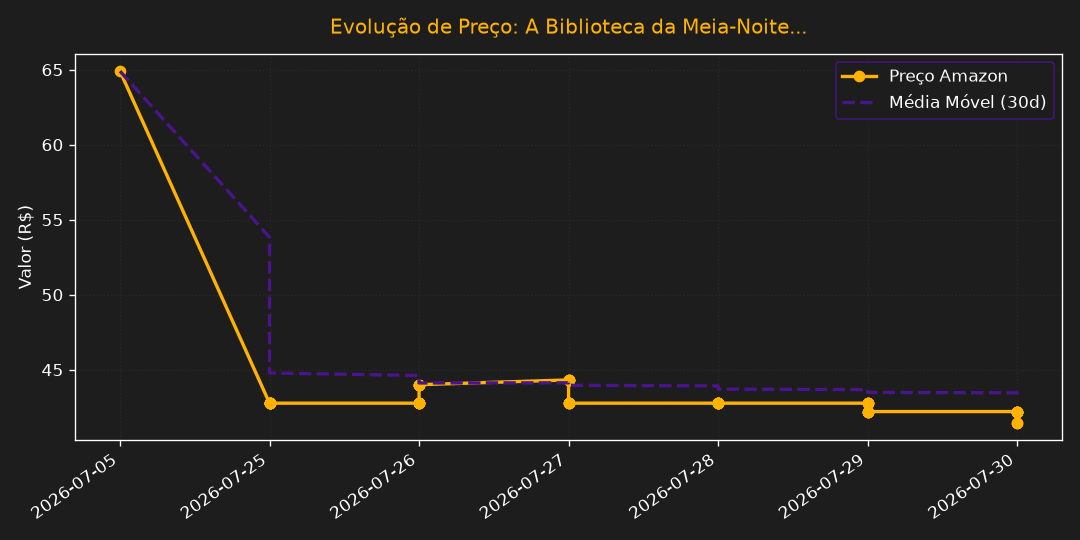
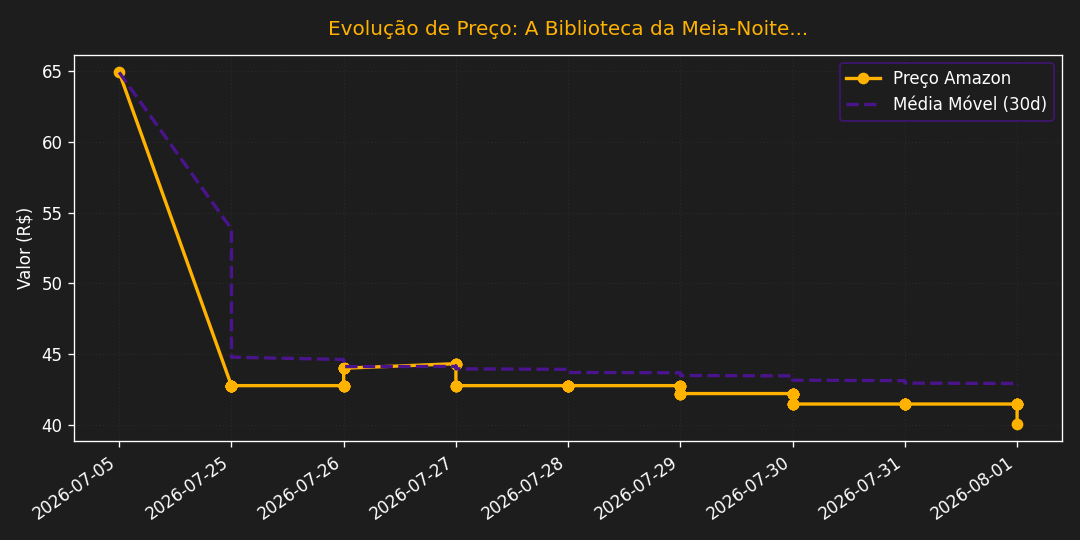
🤖 Bot: Atualização do histórico, portal de ofertas e assets [skip ci]

diff --git a/index.html b/index.html
@@ -20,7 +20,7 @@
     <meta property="twitter:description" content="Curadoria matemática de livros de fantasia em promoção.">
     
     <script type="application/ld+json">
-    {"@context": "https://schema.org", "@type": "ItemList", "name": "Promoções Ativas de Fantasia", "itemListElement": [{"@type": "ListItem", "position": 1, "item": {"@type": "Product", "name": "Box Ficção Completa de Edgar Allan Poe", "url": "https://link.amazon/B0bxqDHXJ", "offers": {"@type": "Offer", "priceCurrency": "BRL", "price": 180.86, "availability": "https://schema.org/InStock"}}}, {"@type": "ListItem", "position": 2, "item": {"@type": "Product", "name": "O sacrifício", "url": "https://link.amazon/B05C027gt", "offers": {"@type": "Offer", "priceCurrency": "BRL", "price": 63.78, "availability": "https://schema.org/InStock"}}}, {"@type": "ListItem", "position": 3, "item": {"@type": "Product", "name": "A cabeça do santo", "url": "https://link.amazon/B07BZ9Phr", "offers": {"@type": "Offer", "priceCurrency": "BRL", "price": 33.37, "availability": "https://schema.org/InStock"}}}, {"@type": "ListItem", "position": 4, "item": {"@type": "Product", "name": "A Biblioteca da Meia-Noite", "url": "https://link.amazon/B0ahQKnZG", "offers": {"@type": "Offer", "priceCurrency": "BRL", "price": 41.47, "availability": "https://schema.org/InStock"}}}, {"@type": "ListItem", "position": 5, "item": {"@type": "Product", "name": "O Hobbit + pôster", "url": "https://link.amazon/B05Sr7Nr7", "offers": {"@type": "Offer", "priceCurrency": "BRL", "price": 44.94, "availability": "https://schema.org/InStock"}}}, {"@type": "ListItem", "position": 6, "item": {"@type": "Product", "name": "A Ascensão do Dragão", "url": "https://link.amazon/B04OFbHZF", "offers": {"@type": "Offer", "priceCurrency": "BRL", "price": 132.9, "availability": "https://schema.org/InStock"}}}, {"@type": "ListItem", "position": 7, "item": {"@type": "Product", "name": "O mundo de gelo e fogo", "url": "https://link.amazon/B0bOFsgQ9", "offers": {"@type": "Offer", "priceCurrency": "BRL", "price": 135.26, "availability": "https://schema.org/InStock"}}}, {"@type": "ListItem", "position": 8, "item": {"@type": "Product", "name": "Box Trilogia O Senhor dos Anéis", "url": "https://link.amazon/B0cOS4omj", "offers": {"@type": "Offer", "priceCurrency": "BRL", "price": 199.4, "availability": "https://schema.org/InStock"}}}, {"@type": "ListItem", "position": 9, "item": {"@type": "Product", "name": "O cavaleiro dos Sete Reinos", "url": "https://link.amazon/B0e2PzSTe", "offers": {"@type": "Offer", "priceCurrency": "BRL", "price": 78.99, "availability": "https://schema.org/InStock"}}}, {"@type": "ListItem", "position": 10, "item": {"@type": "Product", "name": "Fogo & Sangue – Volume 1", "url": "https://link.amazon/B01CIGwaZ", "offers": {"@type": "Offer", "priceCurrency": "BRL", "price": 82.94, "availability": "https://schema.org/InStock"}}}, {"@type": "ListItem", "position": 11, "item": {"@type": "Product", "name": "Box Torre negra", "url": "https://link.amazon/B0czAwuOp", "offers": {"@type": "Offer", "priceCurrency": "BRL", "price": 412.72, "availability": "https://schema.org/InStock"}}}, {"@type": "ListItem", "position": 12, "item": {"@type": "Product", "name": "Os fragmentos de Bovadium", "url": "https://link.amazon/B0fKkmi1R", "offers": {"@type": "Offer", "priceCurrency": "BRL", "price": 39.8, "availability": "https://schema.org/InStock"}}}, {"@type": "ListItem", "position": 13, "item": {"@type": "Product", "name": "Mistborn: O Império Final: Livro 1 de Mistborn", "url": "https://link.amazon/B0bJ5jTSU", "offers": {"@type": "Offer", "priceCurrency": "BRL", "price": 69.73, "availability": "https://schema.org/InStock"}}}, {"@type": "ListItem", "position": 14, "item": {"@type": "Product", "name": "A guerra da papoula", "url": "https://link.amazon/B075ASsRo", "offers": {"@type": "Offer", "priceCurrency": "BRL", "price": 54.14, "availability": "https://schema.org/InStock"}}}, {"@type": "ListItem", "position": 15, "item": {"@type": "Product", "name": "A república do dragão: 2", "url": "https://link.amazon/B05s4V4tS", "offers": {"@type": "Offer", "priceCurrency": "BRL", "price": 57.9, "availability": "https://schema.org/InStock"}}}, {"@type": "ListItem", "position": 16, "item": {"@type": "Product", "name": "A deusa em chamas: 3", "url": "https://link.amazon/B00tEF0jN", "offers": {"@type": "Offer", "priceCurrency": "BRL", "price": 59.75, "availability": "https://schema.org/InStock"}}}, {"@type": "ListItem", "position": 17, "item": {"@type": "Product", "name": "O caminho dos reis", "url": "https://link.amazon/B0g8PJdyP", "offers": {"@type": "Offer", "priceCurrency": "BRL", "price": 132.9, "availability": "https://schema.org/InStock"}}}, {"@type": "ListItem", "position": 18, "item": {"@type": "Product", "name": "Palavras de Radiância", "url": "https://link.amazon/B09bDCyVl", "offers": {"@type": "Offer", "priceCurrency": "BRL", "price": 152.85, "availability": "https://schema.org/InStock"}}}, {"@type": "ListItem", "position": 19, "item": {"@type": "Product", "name": "Sacramentadora", "url": "https://link.amazon/B0cBFS3o1", "offers": {"@type": "Offer", "priceCurrency": "BRL", "price": 152.85, "availability": "https://schema.org/InStock"}}}, {"@type": "ListItem", "position": 20, "item": {"@type": "Product", "name": "Ritmo da Guerra", "url": "https://link.amazon/B0f81O992", "offers": {"@type": "Offer", "priceCurrency": "BRL", "price": 147.13, "availability": "https://schema.org/InStock"}}}, {"@type": "ListItem", "position": 21, "item": {"@type": "Product", "name": "O alquimista", "url": "https://link.amazon/B00bB1BuS", "offers": {"@type": "Offer", "priceCurrency": "BRL", "price": 42.94, "availability": "https://schema.org/InStock"}}}, {"@type": "ListItem", "position": 22, "item": {"@type": "Product", "name": "O nome do vento", "url": "https://link.amazon/B0h9jyezR", "offers": {"@type": "Offer", "priceCurrency": "BRL", "price": 53.9, "availability": "https://schema.org/InStock"}}}, {"@type": "ListItem", "position": 23, "item": {"@type": "Product", "name": "A música do silêncio", "url": "https://link.amazon/B0eRR4Vm5", "offers": {"@type": "Offer", "priceCurrency": "BRL", "price": 39.8, "availability": "https://schema.org/InStock"}}}, {"@type": "ListItem", "position": 24, "item": {"@type": "Product", "name": "O temor do sábio", "url": "https://link.amazon/B0aqYDLFU", "offers": {"@type": "Offer", "priceCurrency": "BRL", "price": 78.99, "availability": "https://schema.org/InStock"}}}]}
+    {"@context": "https://schema.org", "@type": "ItemList", "name": "Promoções Ativas de Fantasia", "itemListElement": [{"@type": "ListItem", "position": 1, "item": {"@type": "Product", "name": "Box Ficção Completa de Edgar Allan Poe", "url": "https://link.amazon/B0bxqDHXJ", "offers": {"@type": "Offer", "priceCurrency": "BRL", "price": 279.9, "availability": "https://schema.org/InStock"}}}, {"@type": "ListItem", "position": 2, "item": {"@type": "Product", "name": "O sacrifício", "url": "https://link.amazon/B05C027gt", "offers": {"@type": "Offer", "priceCurrency": "BRL", "price": 63.78, "availability": "https://schema.org/InStock"}}}, {"@type": "ListItem", "position": 3, "item": {"@type": "Product", "name": "A cabeça do santo", "url": "https://link.amazon/B07BZ9Phr", "offers": {"@type": "Offer", "priceCurrency": "BRL", "price": 37.07, "availability": "https://schema.org/InStock"}}}, {"@type": "ListItem", "position": 4, "item": {"@type": "Product", "name": "A Biblioteca da Meia-Noite", "url": "https://link.amazon/B0ahQKnZG", "offers": {"@type": "Offer", "priceCurrency": "BRL", "price": 40.07, "availability": "https://schema.org/InStock"}}}, {"@type": "ListItem", "position": 5, "item": {"@type": "Product", "name": "O Hobbit + pôster", "url": "https://link.amazon/B05Sr7Nr7", "offers": {"@type": "Offer", "priceCurrency": "BRL", "price": 44.94, "availability": "https://schema.org/InStock"}}}, {"@type": "ListItem", "position": 6, "item": {"@type": "Product", "name": "A Ascensão do Dragão", "url": "https://link.amazon/B04OFbHZF", "offers": {"@type": "Offer", "priceCurrency": "BRL", "price": 132.9, "availability": "https://schema.org/InStock"}}}, {"@type": "ListItem", "position": 7, "item": {"@type": "Product", "name": "O mundo de gelo e fogo", "url": "https://link.amazon/B0bOFsgQ9", "offers": {"@type": "Offer", "priceCurrency": "BRL", "price": 135.26, "availability": "https://schema.org/InStock"}}}, {"@type": "ListItem", "position": 8, "item": {"@type": "Product", "name": "Box Trilogia O Senhor dos Anéis", "url": "https://link.amazon/B0cOS4omj", "offers": {"@type": "Offer", "priceCurrency": "BRL", "price": 199.4, "availability": "https://schema.org/InStock"}}}, {"@type": "ListItem", "position": 9, "item": {"@type": "Product", "name": "O cavaleiro dos Sete Reinos", "url": "https://link.amazon/B0e2PzSTe", "offers": {"@type": "Offer", "priceCurrency": "BRL", "price": 78.99, "availability": "https://schema.org/InStock"}}}, {"@type": "ListItem", "position": 10, "item": {"@type": "Product", "name": "Fogo & Sangue – Volume 1", "url": "https://link.amazon/B01CIGwaZ", "offers": {"@type": "Offer", "priceCurrency": "BRL", "price": 82.94, "availability": "https://schema.org/InStock"}}}, {"@type": "ListItem", "position": 11, "item": {"@type": "Product", "name": "Box Torre negra", "url": "https://link.amazon/B0czAwuOp", "offers": {"@type": "Offer", "priceCurrency": "BRL", "price": 412.72, "availability": "https://schema.org/InStock"}}}, {"@type": "ListItem", "position": 12, "item": {"@type": "Product", "name": "Os fragmentos de Bovadium", "url": "https://link.amazon/B0fKkmi1R", "offers": {"@type": "Offer", "priceCurrency": "BRL", "price": 39.8, "availability": "https://schema.org/InStock"}}}, {"@type": "ListItem", "position": 13, "item": {"@type": "Product", "name": "Mistborn: O Império Final: Livro 1 de Mistborn", "url": "https://link.amazon/B0bJ5jTSU", "offers": {"@type": "Offer", "priceCurrency": "BRL", "price": 69.73, "availability": "https://schema.org/InStock"}}}, {"@type": "ListItem", "position": 14, "item": {"@type": "Product", "name": "A guerra da papoula", "url": "https://link.amazon/B075ASsRo", "offers": {"@type": "Offer", "priceCurrency": "BRL", "price": 54.14, "availability": "https://schema.org/InStock"}}}, {"@type": "ListItem", "position": 15, "item": {"@type": "Product", "name": "A república do dragão: 2", "url": "https://link.amazon/B05s4V4tS", "offers": {"@type": "Offer", "priceCurrency": "BRL", "price": 57.9, "availability": "https://schema.org/InStock"}}}, {"@type": "ListItem", "position": 16, "item": {"@type": "Product", "name": "A deusa em chamas: 3", "url": "https://link.amazon/B00tEF0jN", "offers": {"@type": "Offer", "priceCurrency": "BRL", "price": 59.75, "availability": "https://schema.org/InStock"}}}, {"@type": "ListItem", "position": 17, "item": {"@type": "Product", "name": "O caminho dos reis", "url": "https://link.amazon/B0g8PJdyP", "offers": {"@type": "Offer", "priceCurrency": "BRL", "price": 103.0, "availability": "https://schema.org/InStock"}}}, {"@type": "ListItem", "position": 18, "item": {"@type": "Product", "name": "Palavras de Radiância", "url": "https://link.amazon/B09bDCyVl", "offers": {"@type": "Offer", "priceCurrency": "BRL", "price": 152.85, "availability": "https://schema.org/InStock"}}}, {"@type": "ListItem", "position": 19, "item": {"@type": "Product", "name": "Sacramentadora", "url": "https://link.amazon/B0cBFS3o1", "offers": {"@type": "Offer", "priceCurrency": "BRL", "price": 152.85, "availability": "https://schema.org/InStock"}}}, {"@type": "ListItem", "position": 20, "item": {"@type": "Product", "name": "Ritmo da Guerra", "url": "https://link.amazon/B0f81O992", "offers": {"@type": "Offer", "priceCurrency": "BRL", "price": 147.13, "availability": "https://schema.org/InStock"}}}, {"@type": "ListItem", "position": 21, "item": {"@type": "Product", "name": "O alquimista", "url": "https://link.amazon/B00bB1BuS", "offers": {"@type": "Offer", "priceCurrency": "BRL", "price": 42.94, "availability": "https://schema.org/InStock"}}}, {"@type": "ListItem", "position": 22, "item": {"@type": "Product", "name": "O nome do vento", "url": "https://link.amazon/B0h9jyezR", "offers": {"@type": "Offer", "priceCurrency": "BRL", "price": 53.9, "availability": "https://schema.org/InStock"}}}, {"@type": "ListItem", "position": 23, "item": {"@type": "Product", "name": "A música do silêncio", "url": "https://link.amazon/B0eRR4Vm5", "offers": {"@type": "Offer", "priceCurrency": "BRL", "price": 39.8, "availability": "https://schema.org/InStock"}}}, {"@type": "ListItem", "position": 24, "item": {"@type": "Product", "name": "O temor do sábio", "url": "https://link.amazon/B0aqYDLFU", "offers": {"@type": "Offer", "priceCurrency": "BRL", "price": 78.99, "availability": "https://schema.org/InStock"}}}]}
     </script>
     
     <link rel="preconnect" href="https://fonts.googleapis.com">
@@ -103,7 +103,7 @@
 
         <div class="grid grid-cols-1 md:grid-cols-2 lg:grid-cols-3 gap-8">
             <article class="glass-card rounded-xl overflow-hidden relative flex flex-col h-full group">
-                <span class="px-2 py-1 text-xs font-bold text-green-100 bg-green-900/60 border border-green-700 rounded absolute top-3 right-3 shadow-sm z-20">Abaixo da Média</span>
+                
                 
                 <div class="w-full h-48 bg-black/40 flex items-center justify-center overflow-hidden border-b border-gray-800">
                     <img src="" alt="Box Ficção Completa de Edgar Allan Poe" class="w-full h-full object-cover group-hover:scale-105 transition-transform duration-300">
@@ -115,11 +115,11 @@
                         <div class="space-y-3 mb-6">
                             <div class="flex justify-between items-end border-b border-gray-700/50 pb-3">
                                 <span class="text-sm text-gray-400">Preço Agora</span>
-                                <span class="text-2xl font-bold text-bardo-success">R$ 180,86</span>
+                                <span class="text-2xl font-bold text-bardo-success">R$ 279,90</span>
                             </div>
                             <div class="flex justify-between items-center text-sm">
                                 <span class="text-gray-500">Média (30 dias)</span>
-                                <span class="font-medium text-gray-300">R$ 186,70</span>
+                                <span class="font-medium text-gray-300">R$ 188,00</span>
                             </div>
                             <div class="flex justify-between items-center text-sm">
                                 <span class="text-gray-500">Menor Histórico</span>
@@ -150,7 +150,7 @@
                             </div>
                             <div class="flex justify-between items-center text-sm">
                                 <span class="text-gray-500">Média (30 dias)</span>
-                                <span class="font-medium text-gray-300">R$ 63,21</span>
+                                <span class="font-medium text-gray-300">R$ 63,22</span>
                             </div>
                             <div class="flex justify-between items-center text-sm">
                                 <span class="text-gray-500">Menor Histórico</span>
@@ -177,11 +177,11 @@
                         <div class="space-y-3 mb-6">
                             <div class="flex justify-between items-end border-b border-gray-700/50 pb-3">
                                 <span class="text-sm text-gray-400">Preço Agora</span>
-                                <span class="text-2xl font-bold text-bardo-success">R$ 33,37</span>
+                                <span class="text-2xl font-bold text-bardo-success">R$ 37,07</span>
                             </div>
                             <div class="flex justify-between items-center text-sm">
                                 <span class="text-gray-500">Média (30 dias)</span>
-                                <span class="font-medium text-gray-300">R$ 42,97</span>
+                                <span class="font-medium text-gray-300">R$ 42,88</span>
                             </div>
                             <div class="flex justify-between items-center text-sm">
                                 <span class="text-gray-500">Menor Histórico</span>
@@ -208,15 +208,15 @@
                         <div class="space-y-3 mb-6">
                             <div class="flex justify-between items-end border-b border-gray-700/50 pb-3">
                                 <span class="text-sm text-gray-400">Preço Agora</span>
-                                <span class="text-2xl font-bold text-bardo-success">R$ 41,47</span>
+                                <span class="text-2xl font-bold text-bardo-success">R$ 40,07</span>
                             </div>
                             <div class="flex justify-between items-center text-sm">
                                 <span class="text-gray-500">Média (30 dias)</span>
-                                <span class="font-medium text-gray-300">R$ 42,82</span>
+                                <span class="font-medium text-gray-300">R$ 42,78</span>
                             </div>
                             <div class="flex justify-between items-center text-sm">
                                 <span class="text-gray-500">Menor Histórico</span>
-                                <span class="font-medium text-gray-300">R$ 41,47</span>
+                                <span class="font-medium text-gray-300">R$ 40,07</span>
                             </div>
                         </div>
                     </div>
@@ -274,7 +274,7 @@
                             </div>
                             <div class="flex justify-between items-center text-sm">
                                 <span class="text-gray-500">Média (30 dias)</span>
-                                <span class="font-medium text-gray-300">R$ 138,18</span>
+                                <span class="font-medium text-gray-300">R$ 138,11</span>
                             </div>
                             <div class="flex justify-between items-center text-sm">
                                 <span class="text-gray-500">Menor Histórico</span>
@@ -305,7 +305,7 @@
                             </div>
                             <div class="flex justify-between items-center text-sm">
                                 <span class="text-gray-500">Média (30 dias)</span>
-                                <span class="font-medium text-gray-300">R$ 132,79</span>
+                                <span class="font-medium text-gray-300">R$ 132,82</span>
                             </div>
                             <div class="flex justify-between items-center text-sm">
                                 <span class="text-gray-500">Menor Histórico</span>
@@ -336,7 +336,7 @@
                             </div>
                             <div class="flex justify-between items-center text-sm">
                                 <span class="text-gray-500">Média (30 dias)</span>
-                                <span class="font-medium text-gray-300">R$ 207,44</span>
+                                <span class="font-medium text-gray-300">R$ 207,32</span>
                             </div>
                             <div class="flex justify-between items-center text-sm">
                                 <span class="text-gray-500">Menor Histórico</span>
@@ -367,7 +367,7 @@
                             </div>
                             <div class="flex justify-between items-center text-sm">
                                 <span class="text-gray-500">Média (30 dias)</span>
-                                <span class="font-medium text-gray-300">R$ 79,60</span>
+                                <span class="font-medium text-gray-300">R$ 79,59</span>
                             </div>
                             <div class="flex justify-between items-center text-sm">
                                 <span class="text-gray-500">Menor Histórico</span>
@@ -398,7 +398,7 @@
                             </div>
                             <div class="flex justify-between items-center text-sm">
                                 <span class="text-gray-500">Média (30 dias)</span>
-                                <span class="font-medium text-gray-300">R$ 79,80</span>
+                                <span class="font-medium text-gray-300">R$ 79,85</span>
                             </div>
                             <div class="flex justify-between items-center text-sm">
                                 <span class="text-gray-500">Menor Histórico</span>
@@ -429,7 +429,7 @@
                             </div>
                             <div class="flex justify-between items-center text-sm">
                                 <span class="text-gray-500">Média (30 dias)</span>
-                                <span class="font-medium text-gray-300">R$ 395,01</span>
+                                <span class="font-medium text-gray-300">R$ 395,29</span>
                             </div>
                             <div class="flex justify-between items-center text-sm">
                                 <span class="text-gray-500">Menor Histórico</span>
@@ -460,7 +460,7 @@
                             </div>
                             <div class="flex justify-between items-center text-sm">
                                 <span class="text-gray-500">Média (30 dias)</span>
-                                <span class="font-medium text-gray-300">R$ 40,17</span>
+                                <span class="font-medium text-gray-300">R$ 40,16</span>
                             </div>
                             <div class="flex justify-between items-center text-sm">
                                 <span class="text-gray-500">Menor Histórico</span>
@@ -491,7 +491,7 @@
                             </div>
                             <div class="flex justify-between items-center text-sm">
                                 <span class="text-gray-500">Média (30 dias)</span>
-                                <span class="font-medium text-gray-300">R$ 71,38</span>
+                                <span class="font-medium text-gray-300">R$ 71,35</span>
                             </div>
                             <div class="flex justify-between items-center text-sm">
                                 <span class="text-gray-500">Menor Histórico</span>
@@ -599,7 +599,7 @@
                 </div>
             </article>
             <article class="glass-card rounded-xl overflow-hidden relative flex flex-col h-full group">
-                
+                <span class="px-2 py-1 text-xs font-bold text-green-100 bg-green-900/60 border border-green-700 rounded absolute top-3 right-3 shadow-sm z-20">Abaixo da Média</span>
                 
                 <div class="w-full h-48 bg-black/40 flex items-center justify-center overflow-hidden border-b border-gray-800">
                     <img src="" alt="O caminho dos reis" class="w-full h-full object-cover group-hover:scale-105 transition-transform duration-300">
@@ -611,15 +611,15 @@
                         <div class="space-y-3 mb-6">
                             <div class="flex justify-between items-end border-b border-gray-700/50 pb-3">
                                 <span class="text-sm text-gray-400">Preço Agora</span>
-                                <span class="text-2xl font-bold text-bardo-success">R$ 132,90</span>
+                                <span class="text-2xl font-bold text-bardo-success">R$ 103,00</span>
                             </div>
                             <div class="flex justify-between items-center text-sm">
                                 <span class="text-gray-500">Média (30 dias)</span>
-                                <span class="font-medium text-gray-300">R$ 125,98</span>
+                                <span class="font-medium text-gray-300">R$ 125,53</span>
                             </div>
                             <div class="flex justify-between items-center text-sm">
                                 <span class="text-gray-500">Menor Histórico</span>
-                                <span class="font-medium text-gray-300">R$ 118,77</span>
+                                <span class="font-medium text-gray-300">R$ 103,00</span>
                             </div>
                         </div>
                     </div>
@@ -646,7 +646,7 @@
                             </div>
                             <div class="flex justify-between items-center text-sm">
                                 <span class="text-gray-500">Média (30 dias)</span>
-                                <span class="font-medium text-gray-300">R$ 156,43</span>
+                                <span class="font-medium text-gray-300">R$ 156,36</span>
                             </div>
                             <div class="flex justify-between items-center text-sm">
                                 <span class="text-gray-500">Menor Histórico</span>
@@ -708,7 +708,7 @@
                             </div>
                             <div class="flex justify-between items-center text-sm">
                                 <span class="text-gray-500">Média (30 dias)</span>
-                                <span class="font-medium text-gray-300">R$ 147,35</span>
+                                <span class="font-medium text-gray-300">R$ 147,34</span>
                             </div>
                             <div class="flex justify-between items-center text-sm">
                                 <span class="text-gray-500">Menor Histórico</span>
@@ -770,7 +770,7 @@
                             </div>
                             <div class="flex justify-between items-center text-sm">
                                 <span class="text-gray-500">Média (30 dias)</span>
-                                <span class="font-medium text-gray-300">R$ 54,23</span>
+                                <span class="font-medium text-gray-300">R$ 54,22</span>
                             </div>
                             <div class="flex justify-between items-center text-sm">
                                 <span class="text-gray-500">Menor Histórico</span>
@@ -801,7 +801,7 @@
                             </div>
                             <div class="flex justify-between items-center text-sm">
                                 <span class="text-gray-500">Média (30 dias)</span>
-                                <span class="font-medium text-gray-300">R$ 41,03</span>
+                                <span class="font-medium text-gray-300">R$ 41,01</span>
                             </div>
                             <div class="flex justify-between items-center text-sm">
                                 <span class="text-gray-500">Menor Histórico</span>
@@ -869,7 +869,7 @@
                 &copy; 2026 Bardo das Promoções. 
             </div>
             <div class="text-xs text-gray-600 bg-gray-900/50 px-3 py-1.5 rounded-md border border-gray-800">
-                Última atualização do sistema: 01/08/2026 15:17 (BRT)
+                Última atualização do sistema: 01/08/2026 15:44 (BRT)
             </div>
         </div>
     </footer>
